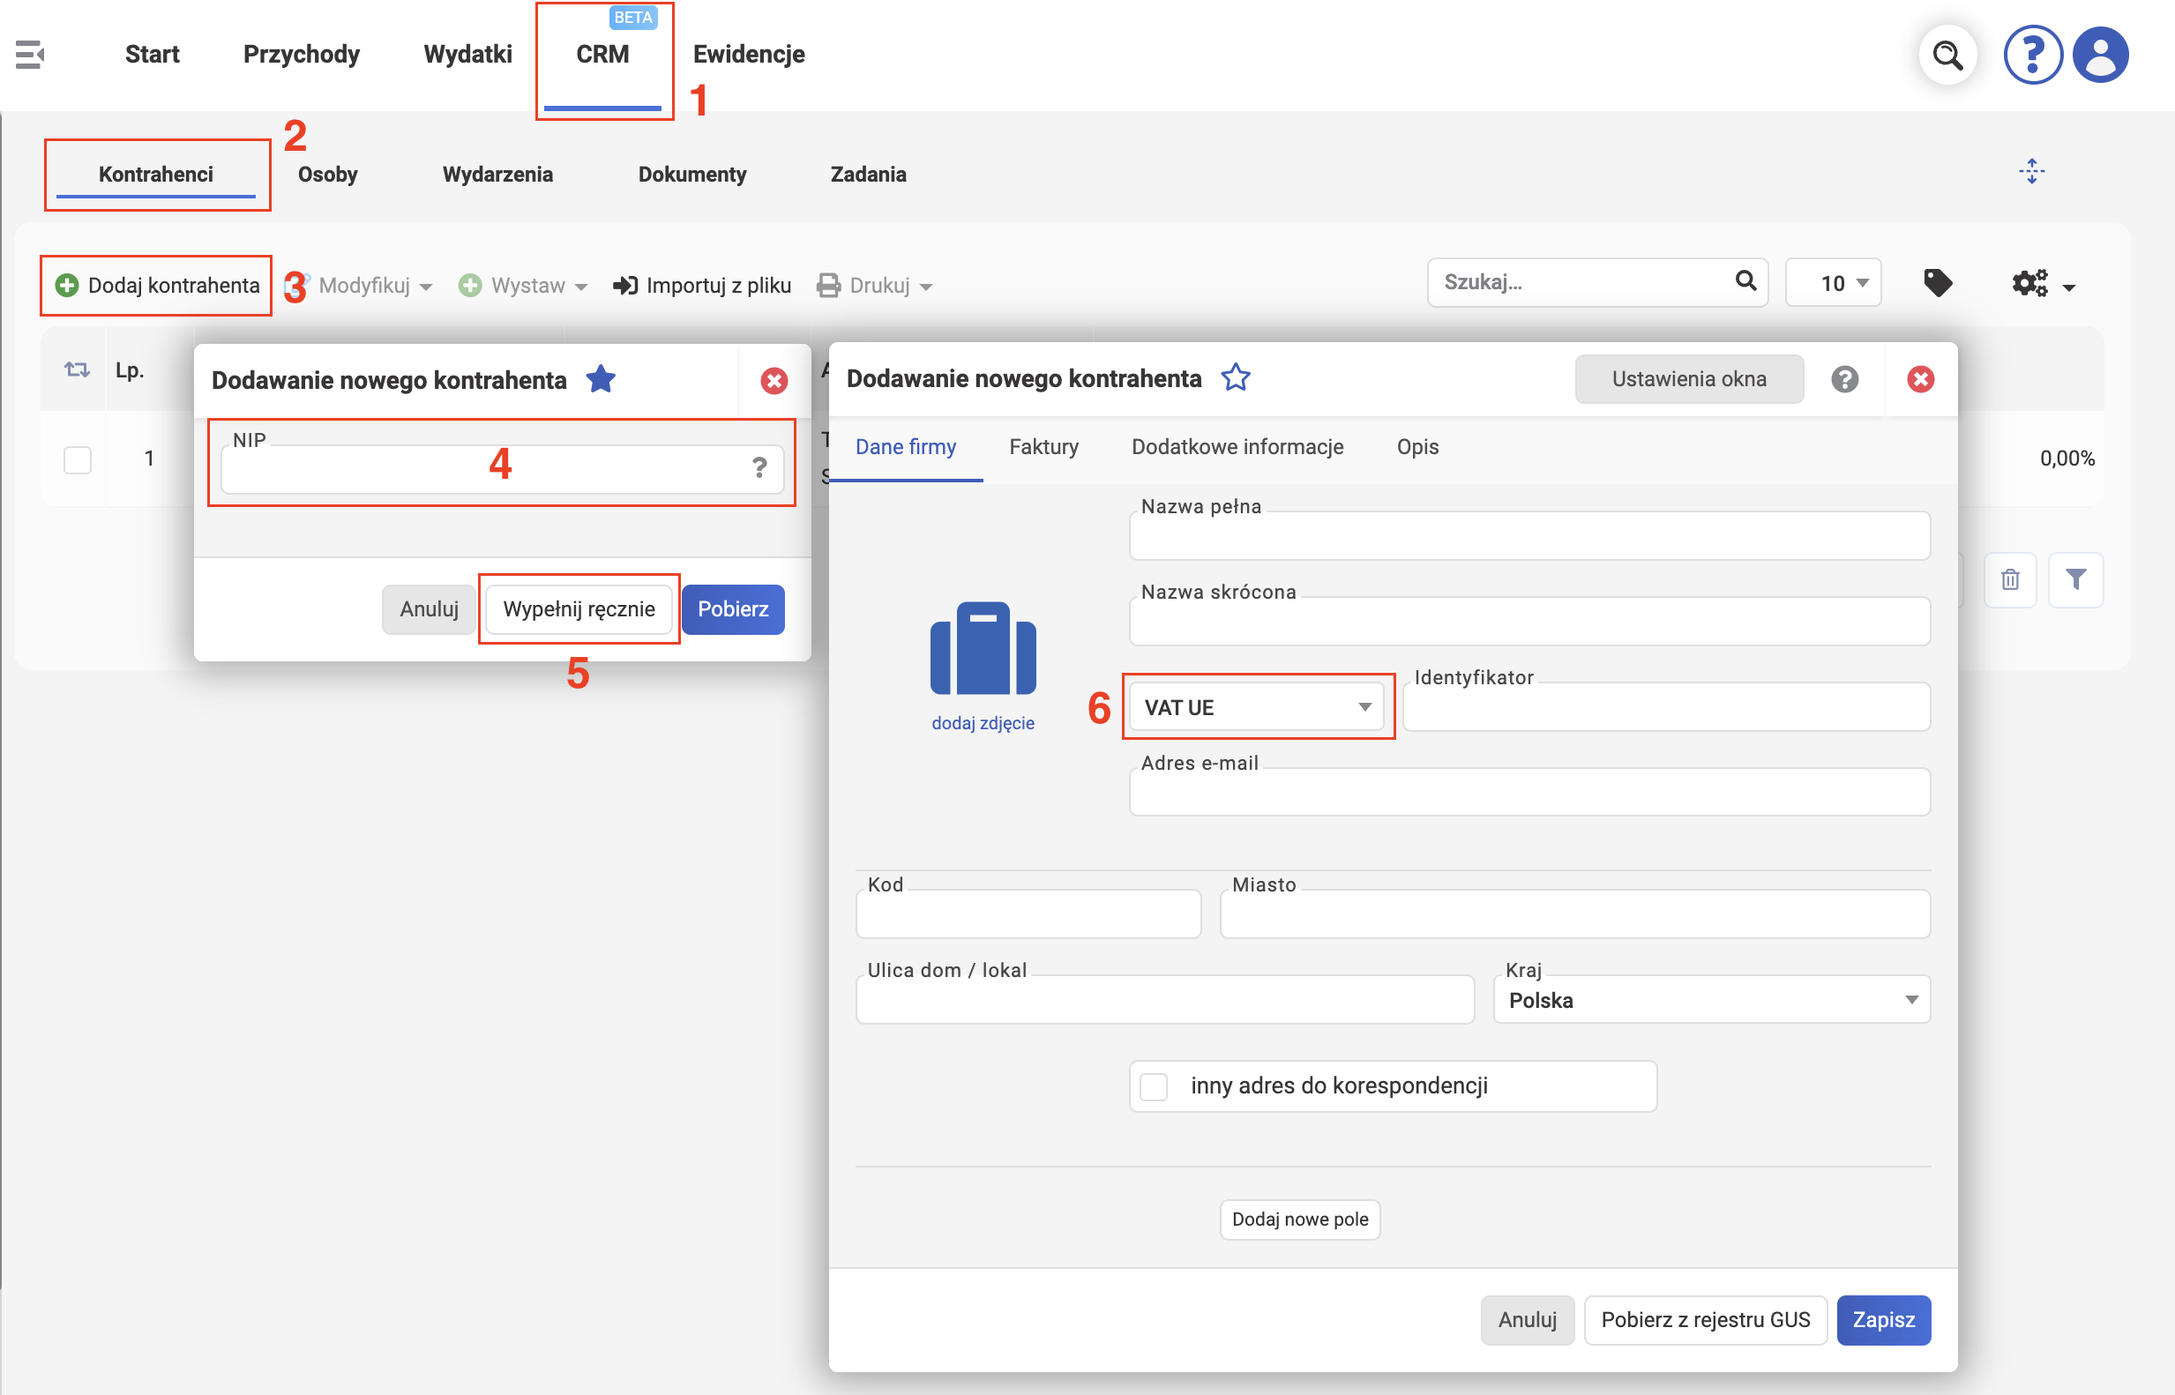
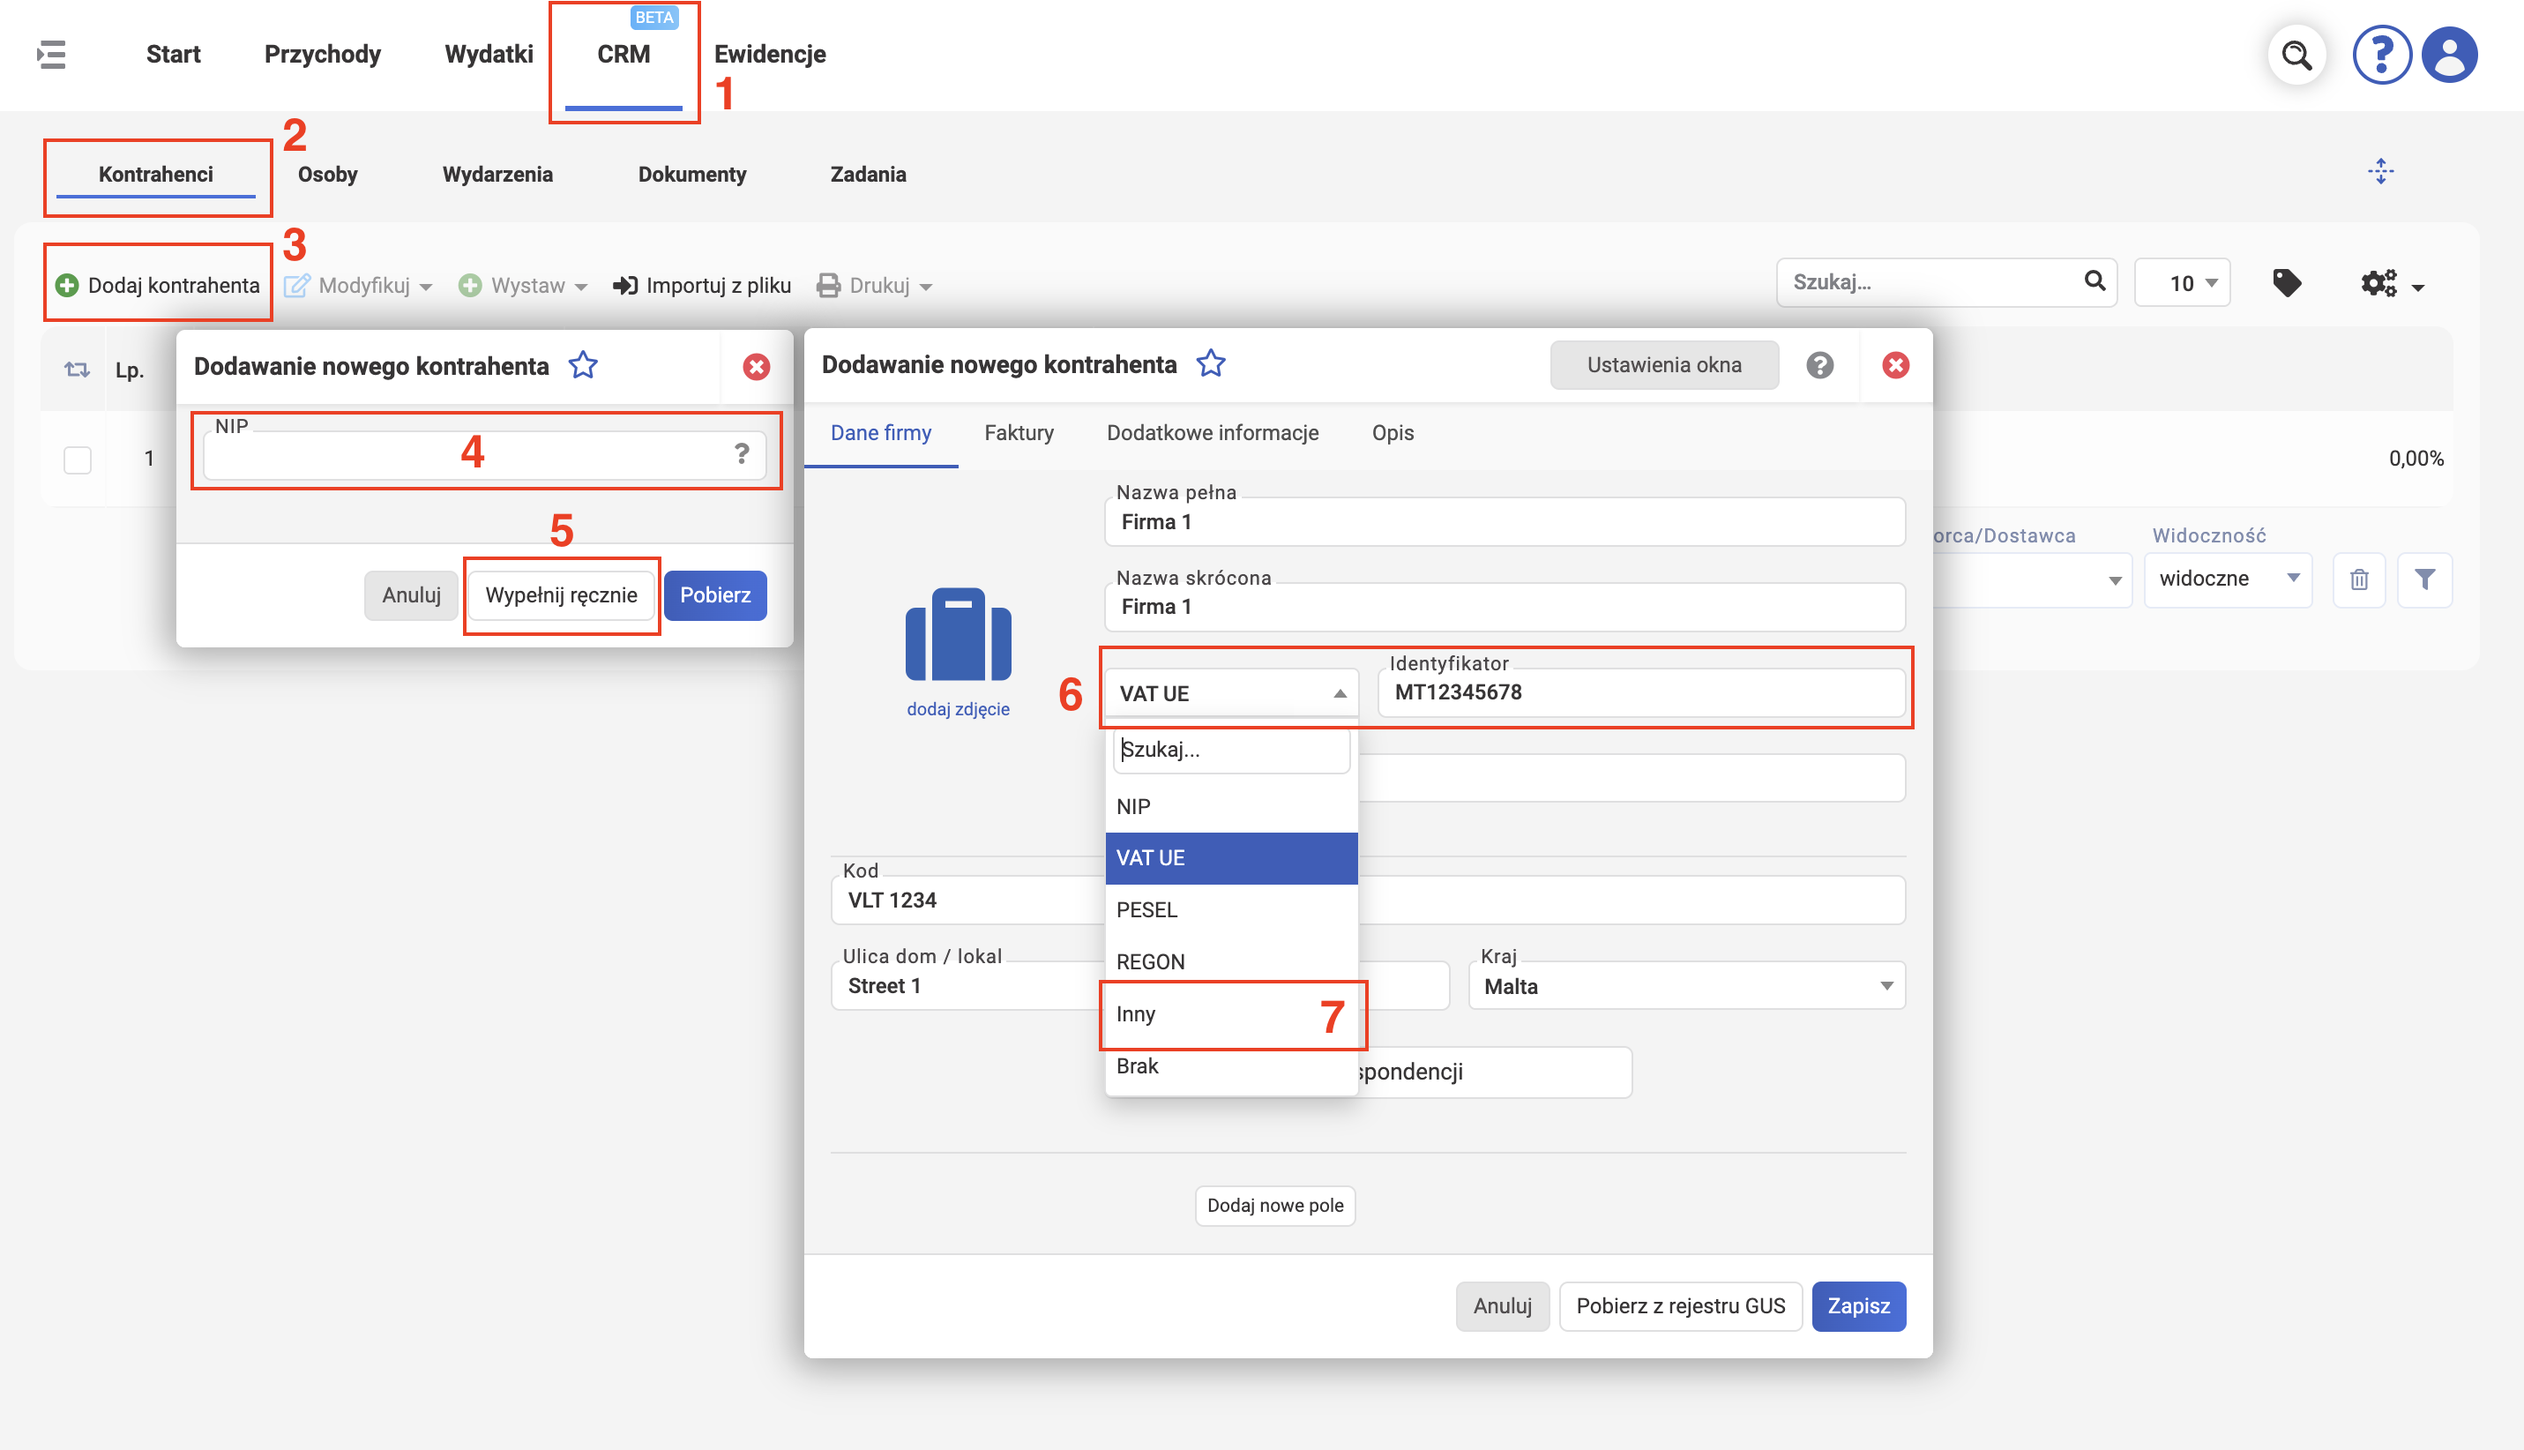
update screenshot

diff --git a/docs/wfirma_settings.md b/docs/wfirma_settings.md
@@ -199,7 +199,8 @@
 3. Нажимаем Dodaj kontrahenta.
 4. Если контрагент из Польши, то в окошке Dodawanie nowego kontrahenta вводим его NIP и нажимаем синюю кнопку Pobierz. Данные подтянутся автоматически.
 5. Иначе можно заполнить данные вручную (кнопка  WYPEŁNIJ RĘCZNIE).
-6. Например если контрагент из ЕС, то можно выбрать VAT EU в качестве идентификатора и заполнить данные вручную.
+6. Например, если контрагент из ЕС, то в окошке Dodawanie nowego kontrahenta можно выбрать VAT UE в качестве идентификатора, в поле Identyfikator добавить номер VAT-UE включая две буквы, с особой внимательностью заполнить адрес (если в адресе отсутствует почтовый индекс — ввести пробел в поле Kod), а также выбрать страну из выпадающего списка «Kraj».
+7. При добавлении нового иностранного контрагента из-за пределов ЕС, после ввода названия компании, необходимо выбрать тип идентификатора «Inne», заполнить адрес (если в адресе отсутствует почтовый индекс — добавить пробел), а также выбрать страну из выпадающего списка «Kraj».
 
 ![14]
 
